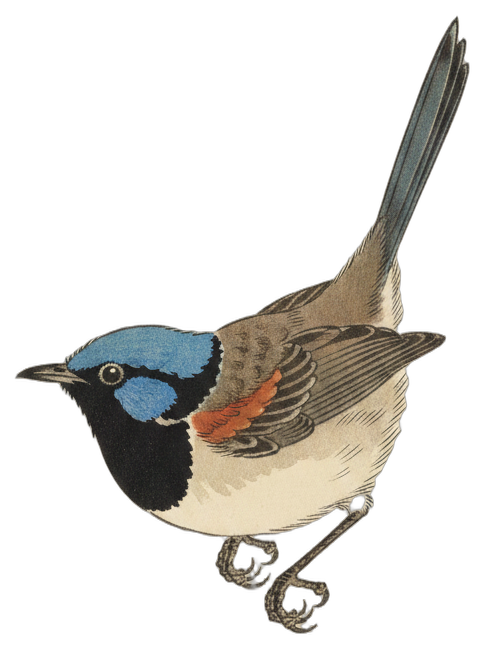
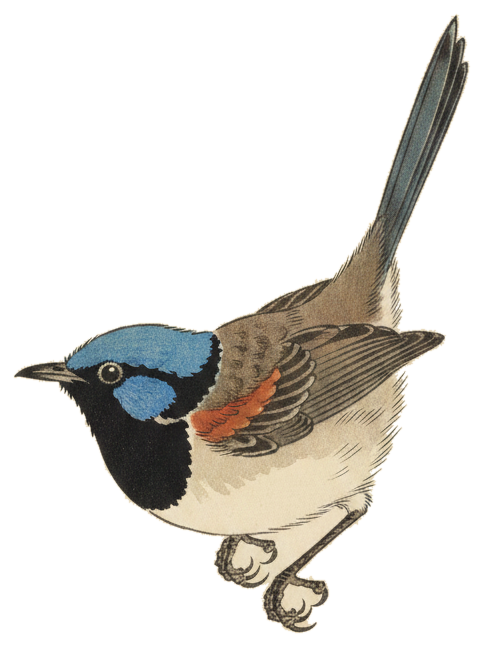
Take cutout silhouettes from the ink outline, not from colour
Reported: feather-coloured fill between the head/neck and the raised wing of
the in-flight egret, where there should be transparency.

That pocket is genuine background which BiRefNet wrongly claimed as bird. It
predates the previous commit's repair and could not be fixed by it: a
raise-only alpha repair fills holes but cannot give back transparency.

Why the obvious fix is wrong
----------------------------
Clearing pixels that match the ground colour destroys this bird. A white
egret's plumage sits within a few luminance levels of the cream field, so
clearing "background-coloured" pixels dissolves the body and leaves only the
ink strokes. Measured and confirmed before discarding the approach: colour
cannot separate plumage from ground here.

The fix
-------
cutout.py now derives the silhouette from the drawing's own ink contour
(ink_silhouette + build_alpha, on by default):

  1. threshold ink as luminance below the frame's median
  2. flood-fill inward from the border through non-ink pixels
  3. the fill reaches all true background, including concave pockets like the
     neck/wing gap, but cannot cross the outline into the body
  4. keep the largest blob, fill enclosed regions, feather 0.6px for edges

This is correct exactly where colour fails - the outline is unambiguous even
when plumage and ground are the same colour - and it fixes both defects at
once: holes filled and wrongly-kept background cleared. Corrections ran in
[…]

diff --git a/avian/frontend/apt.js b/avian/frontend/apt.js
@@ -2,7 +2,8 @@
   var PLACEHOLDER = [{ "sci": "Calypte anna", "com": "Anna's Hummingbird", "featured": true }, { "sci": "Passer domesticus", "com": "House Sparrow" }, { "sci": "Haemorhous mexicanus", "com": "House Finch" }, { "sci": "Turdus migratorius", "com": "American Robin" }, { "sci": "Zenaida macroura", "com": "Mourning Dove" }, { "sci": "Spinus psaltria", "com": "Lesser Goldfinch" }, { "sci": "Zonotrichia leucophrys", "com": "White-crowned Sparrow" }, { "sci": "Aphelocoma californica", "com": "California Scrub-Jay" }, { "sci": "Mimus polyglottos", "com": "Northern Mockingbird" }, { "sci": "Sayornis nigricans", "com": "Black Phoebe" }, { "sci": "Larus occidentalis", "com": "Western Gull" }, { "sci": "Corvus brachyrhynchos", "com": "American Crow" }];
   // Bumped whenever the offline sketch build changes, so the browser
   // doesn't keep a stale cache after we regenerate the sketches.
-  var SKETCH_VERSION = 'act3'; // act3: alpha repair - BiRefNet had cut holes through pale bodies (chests of
+  var SKETCH_VERSION = 'act4'; // act4: silhouettes taken from the ink outline, fixing both holes in pale bodies and
+  // background wrongly kept as body. act3: alpha repair - holes through pale bodies (chests of
   // the three flight-pose egrets/fairywren). act2: +5 ACT gap species (403 total) - Australasian Pipit,
   // Cattle Egret, Variegated Fairywren, Intermediate Egret, Barn Owl. act1: AU-VIC bundle (398 species)
   // swapped in for the North American set, masks rebuilt for Canberra/ACT deployment.
@@ -12,7 +13,7 @@
   // equivalent to a global cache purge for /api/img. (caches.default
   // .delete() in the worker only affects ONE colo at a time, so a
   // versioned URL is the only reliable way to invalidate everywhere.)
-  var IMG_VERSION = 'act3'; // act3: pale-body alpha repair re-cut. act2: +5 ACT gap species; Intermediate Egret and Australasian Pipit flight
+  var IMG_VERSION = 'act4'; // act4: outline-based re-cut. act3: pale-body alpha repair re-cut. act2: +5 ACT gap species; Intermediate Egret and Australasian Pipit flight
   // pose re-rendered. act1: every illustration replaced with the AU-VIC set, so drop every cached copy.
 
   // ---- Sliding pill helper ----

diff --git a/avian/scripts/cutout.py b/avian/scripts/cutout.py
@@ -27,6 +27,73 @@ import sys
 from pathlib import Path
 
 
+def ink_silhouette(rgb, margin: float = 8.0):
+    """Silhouette taken from the drawing's own ink outline, not from colour.
+
+    Every bird is drawn with a closed ink contour on a flat cream ground.
+    Flood-filling inward from the frame border through non-ink pixels reaches
+    all true background - including concave pockets a matting model tends to
+    swallow, such as the gap between a tucked neck and a raised wing - but it
+    cannot cross the outline into the body.
+
+    This is the only test that works when the plumage is the same colour as
+    the ground. A white egret's body sits within a few levels of the cream
+    field, so a colour test either keeps the background (leaving a
+    feather-coloured slab where there should be a hole) or dissolves the bird
+    outright. The outline is unambiguous where colour is not.
+
+    Returns a boolean mask of the bird.
+    """
+    import numpy as np
+    from scipy import ndimage
+
+    g = rgb.mean(axis=2).astype(np.float32)
+    ground = float(np.median(g))          # the ground dominates the frame
+    ink = g < (ground - margin)
+    lab, _ = ndimage.label(~ink)
+    border = set(np.unique(np.concatenate([lab[0], lab[-1], lab[:, 0], lab[:, -1]])))
+    border.discard(0)
+    outside = np.isin(lab, list(border))
+    bird = ndimage.binary_fill_holes(~outside)
+
+    # Largest blob only - drops paper-edge strips and scan noise, which would
+    # otherwise inflate the crop box to the whole frame.
+    lab2, n = ndimage.label(bird)
+    if n:
+        sizes = ndimage.sum(bird, lab2, range(1, n + 1))
+        bird = lab2 == (int(np.argmax(sizes)) + 1)
+    return bird
+
+
+def build_alpha(rgb, matte, margin: float = 8.0, tol: float = 42.0):
+    """Final alpha: outline silhouette when it is plausible, else matte repair.
+
+    The outline fill is trusted only if it agrees with the matting model on
+    overall area. If the ink contour has a gap the fill leaks into the body
+    and collapses to a few strokes, which the area check catches; in that
+    case we fall back to the matting model plus the raise-only colour repair.
+
+    Returns (alpha, mode, filled, cleared).
+    """
+    import numpy as np
+    from scipy import ndimage
+    from PIL import Image, ImageFilter
+
+    bird = ink_silhouette(rgb, margin)
+    matte_area = int((matte > 127).sum())
+    ratio = bird.sum() / max(matte_area, 1)
+    if not (0.5 <= ratio <= 2.0):
+        alpha, filled = repair_alpha(rgb, matte, tol)
+        return alpha, f"matte+repair (outline ratio {ratio:.2f})", filled, 0
+
+    filled = int(((matte < 128) & bird).sum())
+    cleared = int(((matte > 128) & ~bird).sum())
+    # Feather the hard mask by a sub-pixel blur so edges stay antialiased.
+    alpha = np.array(Image.fromarray((bird * 255).astype(np.uint8))
+                     .filter(ImageFilter.GaussianBlur(0.6)))
+    return alpha, "outline", filled, cleared
+
+
 def repair_alpha(rgb, alpha, tol: float = 42.0):
     """Restore opacity to body areas the matting model wrongly cut away.
 
@@ -90,7 +157,10 @@ def main() -> int:
     ap.add_argument("--force", action="store_true",
                     help="Re-cut illustrations that already have transparency")
     ap.add_argument("--no-repair", action="store_true",
-                    help="Skip the pale-body alpha repair (raw matting output)")
+                    help="Skip alpha correction entirely (raw matting output)")
+    ap.add_argument("--ink-margin", type=float, default=8.0,
+                    help="How far below the ground's luminance a pixel counts "
+                         "as ink, for the outline silhouette (default: 8)")
     ap.add_argument("--ground-tol", type=float, default=42.0,
                     help="Colour distance from the cream ground still counted as "
                          "background, for the repair pass (default: 42)")
@@ -111,6 +181,9 @@ def main() -> int:
             flight = args.dir / f"{slug}-2.png"
             if not slug.endswith("-2") and flight.exists():
                 paths.append(flight)
+        # Dedupe: naming both "x" and "x-2" would otherwise queue x-2 twice,
+        # and the second pass would run over the first pass's own output.
+        paths = list(dict.fromkeys(paths))
         missing = [p for p in paths if not p.exists()]
         if missing:
             print("error: not found: " + ", ".join(p.name for p in missing), file=sys.stderr)
@@ -130,13 +203,17 @@ def main() -> int:
             continue
         src = im.convert("RGB")
         cut = remove(src, session=session)  # RGBA, ground -> transparent
-        recovered = 0
+        note = ""
         if not args.no_repair:
             import numpy as np
             rgb = np.array(src)
-            fixed, recovered = repair_alpha(rgb, np.array(cut.getchannel("A")),
-                                            tol=args.ground_tol)
-            cut = Image.fromarray(np.dstack([rgb, fixed]), "RGBA")
+            alpha, mode, filled, cleared = build_alpha(
+                rgb, np.array(cut.getchannel("A")),
+                margin=args.ink_margin, tol=args.ground_tol)
+            cut = Image.fromarray(np.dstack([rgb, alpha]), "RGBA")
+            bits = [b for b in (f"+{filled}px" if filled > 200 else "",
+                                f"-{cleared}px" if cleared > 200 else "") if b]
+            note = f"  [{mode}{' ' + ' '.join(bits) if bits else ''}]"
         bbox = cut.getchannel("A").getbbox()
         if bbox:
             pad = round(args.margin * max(bbox[2] - bbox[0], bbox[3] - bbox[1]))
@@ -145,8 +222,7 @@ def main() -> int:
             cut = cut.crop((x0, y0, x1, y1))
         cut.save(p)
         done += 1
-        tag = f"  +{recovered}px recovered" if recovered > 200 else ""
-        print(f"  [cut]  {p.name}  -> {cut.width}x{cut.height}{tag}")
+        print(f"  [cut]  {p.name}  -> {cut.width}x{cut.height}{note}")
 
     print(f"\ncut {done} · skipped {skipped} (already transparent)")
     return 0

diff --git a/RECONCILIATION.md b/RECONCILIATION.md
@@ -6,7 +6,7 @@ Canberra / Australian Capital Territory deployment of
 illustration bundle.
 
 **Status: complete. 5 gap species generated, cut out, verified, merged and
-mask-rebuilt. 403 species / 806 illustrations, `act3`.**
+mask-rebuilt. 403 species / 806 illustrations, `act4`.**
 
 **Gemini spend: ~$0.48.** 12 images generated (10 initial + 2 regenerations)
 at 1290 output tokens each, $30/1M → $0.464, plus ~23 verification vision
@@ -437,6 +437,10 @@ through the pale bodies of the three flight poses, removing most of the chest:
 | `malurus-lamberti-2` | 1,992 |
 | `ardea-intermedia-2` | 1,317 |
 
+After the final outline-based re-cut the corrections were larger still, and in
+both directions — e.g. `bubulcus-ibis` recovered 7,006 body pixels and shed
+48,530 pixels of background the matting model had claimed as bird.
+
 This is the failure mode the upstream README warns about — pale bodies against
 the pale cream ground give the matting model too little contrast — and it is
 **invisible until the illustration is composited over a non-cream
@@ -449,24 +453,52 @@ for it". The defect was caught on visual review over a contrasting ground.
 **Compositing over saturated magenta is the check that works**; alpha
 statistics alone are not sufficient.
 
-#### Fix: an alpha repair pass in `cutout.py`
+#### The second defect: background kept as body
 
-Rather than patch the three files by hand, the root cause is now handled in
-`cutout.py` (`repair_alpha`, on by default, `--no-repair` to disable):
+A colour-based repair fixed the holes but could not fix the mirror-image
+error, which review then surfaced on the Intermediate Egret's flight pose: a
+slab of **feather-coloured fill between the neck and the raised wing, where
+there should be transparency**. That pocket is genuine background, and
+BiRefNet had wrongly claimed it as bird. A repair that only ever *raises*
+alpha cannot undo that.
 
-1. Sample the flat cream ground from the frame border.
-2. Flood-fill inward from the border through cream-like pixels only.
-3. Anything the fill cannot reach is bird — **however pale it is**.
-4. Drop paper-noise specks, fill enclosed regions, force those pixels opaque.
+The obvious fix — clear pixels that match the ground colour — **destroys this
+bird**. A white egret's plumage sits within a few luminance levels of the
+cream field, so clearing "background-coloured" pixels dissolves the body and
+leaves only ink strokes. Colour cannot separate the two.
 
-The guarantee that makes this sound: the ground is uniform and
-border-connected, and every bird is ringed by ink outlines, so a border-seeded
-fill physically cannot leak into a body. It only ever *raises* alpha, so the
-matting model's soft antialiased edges survive intact. This is precisely why
-`pregen.py` renders on a flat known ground in the first place.
+#### Fix: take the silhouette from the ink outline
+
+`cutout.py` now derives the silhouette from the drawing's own contour
+(`ink_silhouette` + `build_alpha`, on by default):
+
+1. Threshold ink as luminance below the frame's median (the ground dominates).
+2. Flood-fill inward from the border through non-ink pixels.
+3. The fill reaches all true background — including concave pockets like the
+   neck/wing gap — but **cannot cross the outline into the body**.
+4. Keep the largest blob, fill enclosed regions, feather by 0.6 px so edges
+   stay antialiased.
+
+This is correct precisely where colour fails: the outline is unambiguous even
+when plumage and ground are the same colour. It fixes both defects at once —
+holes are filled *and* wrongly-kept background is cleared.
+
+**Guarded, not blindly trusted.** If the ink contour has a gap, the fill leaks
+into the body and collapses to a few strokes. `build_alpha` compares its area
+against the matting model's and falls back to matte-plus-colour-repair if the
+ratio leaves [0.5, 2.0]. Across the seven illustrations re-cut from their original renders
+the ratio ran 0.72–1.06; the two that fall back are ones whose pre-cutout
+original is not in git.
 
 `scipy` was added to `requirements.txt` for connected components and hole
 filling.
+
+#### A bug in `cutout.py`'s slug expansion
+
+Passing a base slug also queues its `-2` flight pose. Naming both `x` and
+`x-2` therefore queued `x-2` twice, and the second pass ran over the first
+pass's own output — destructive, for the reason in the hazard note below. Now
+de-duplicated.
 
 #### The safety commit paid for itself
 
